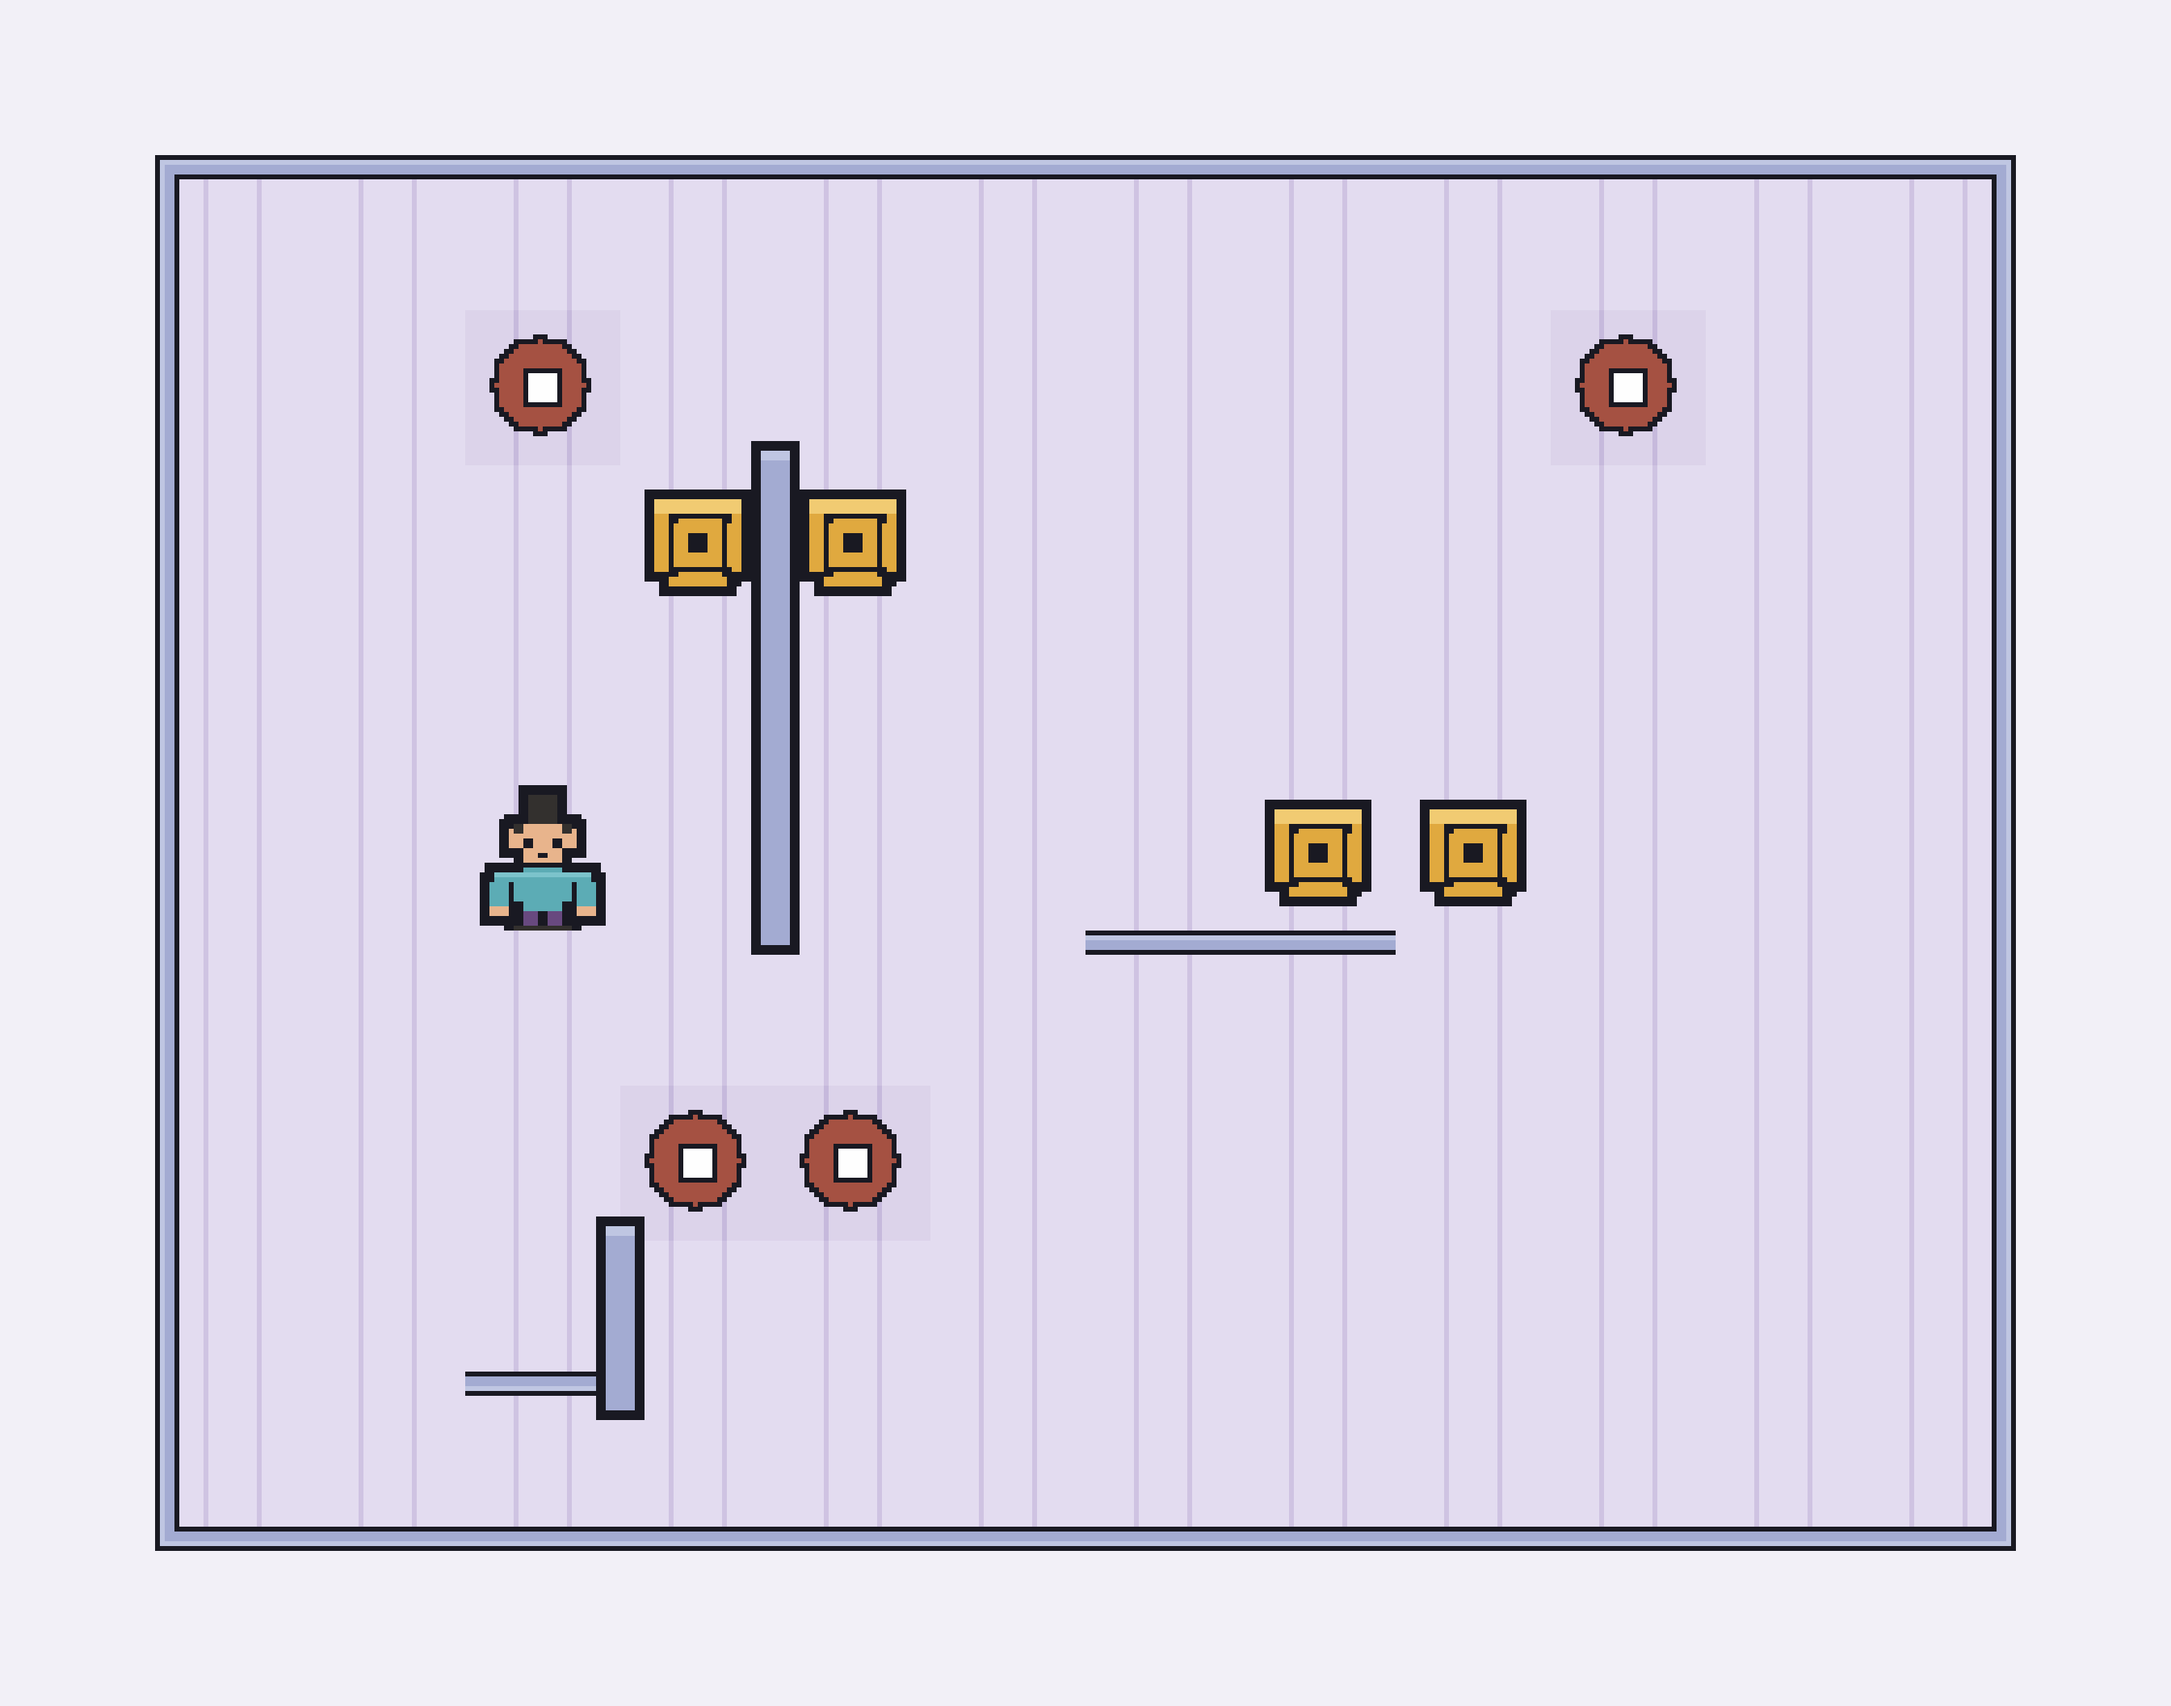
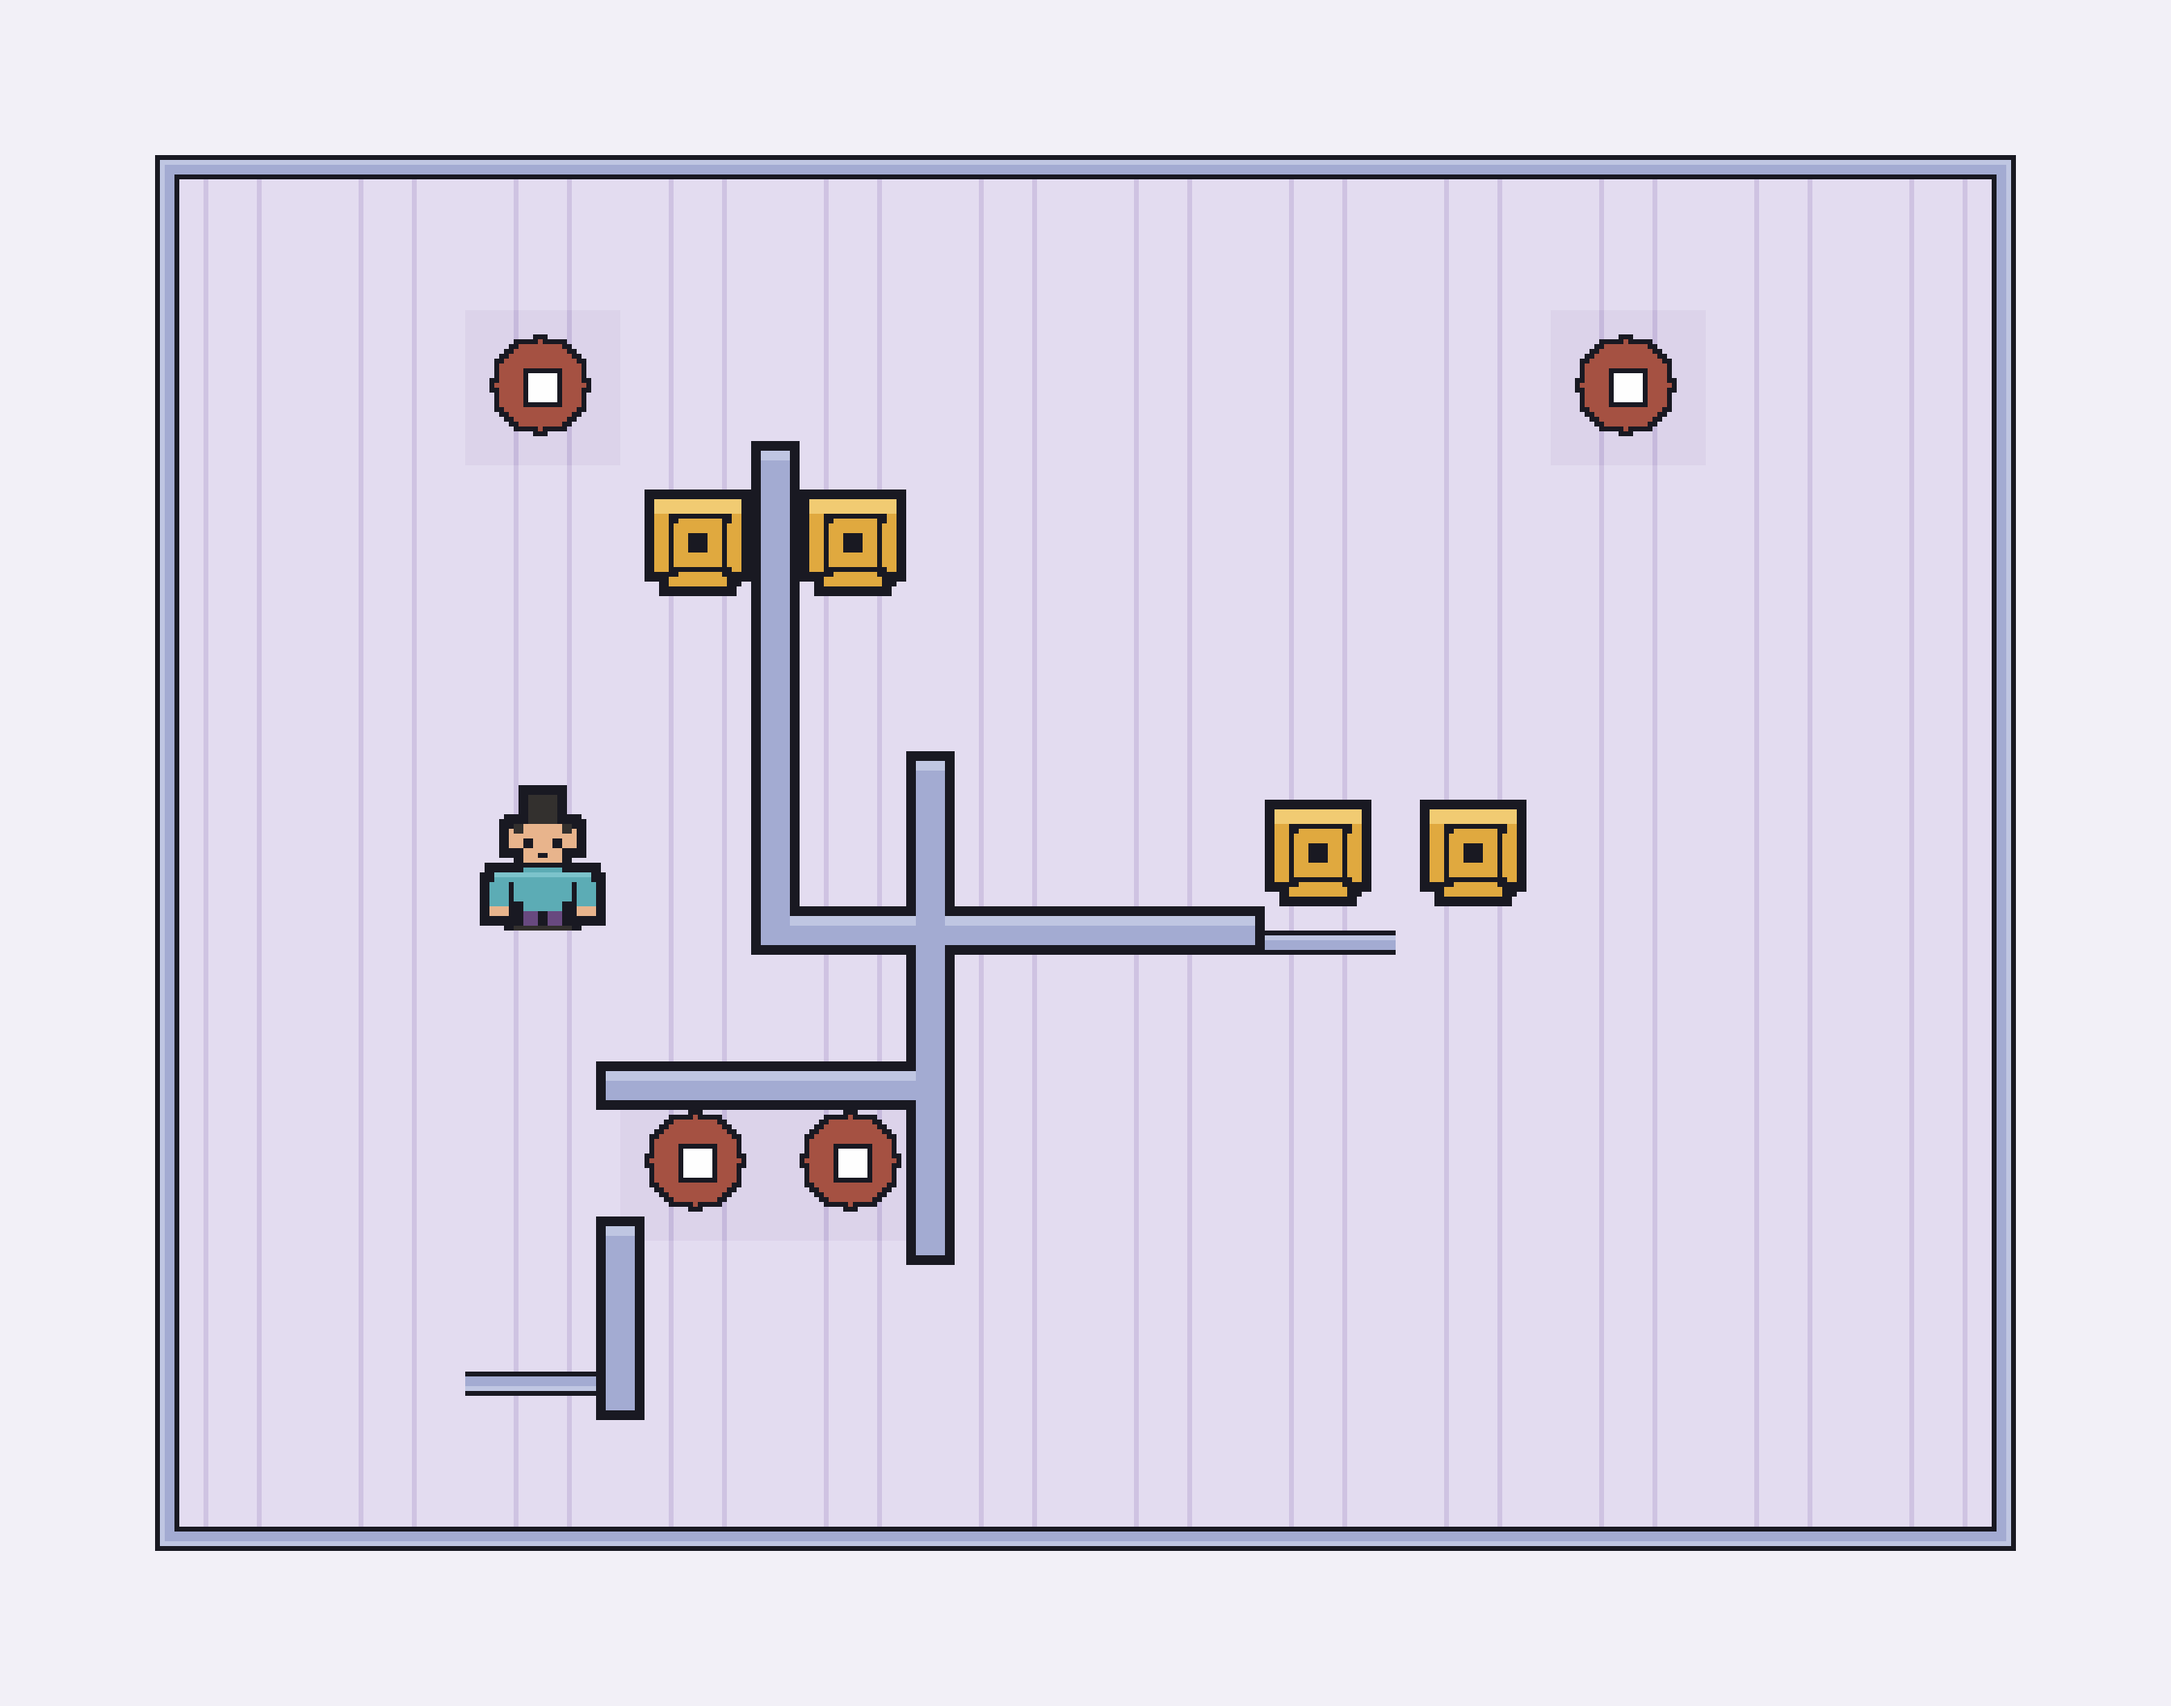
feat(walls): 平涂集竖墙补上亮带，转角接成一条脊
flat() 按"上边两像素是不是空的"找那条唯一亮带，竖着的带子在那里永远不空，
于是整条竖墙没有亮带：转角处横墙的亮线一头撞进平带就断了，仍是凸凹不一。
改成按带子的受光长边取——横带第 13、14 行、竖带第 13、14 列，中心块只按真正
穿过它的臂来取；无条件两个方向都取会在每条笔直竖墙正中留一个 2x2 亮块，
又把格线读了回来。

13 件重出：wall_v、四个角、四个丁字、cross、post、end_n/end_s。纯横件
wall_h 与 wall_end_{e,w} 和 15 件单面墙哈希未变，着色集一件没动。

compose.py 补 junctions()：16 种臂组合各自拼一块，每条臂向外延伸一段让邻节点
正好剩单臂、落成端头盖帽，判断转角的是它在真实关卡里遇见的那批件——contact
sheet 和按格重写的 mock 关卡都看不出这件事。两套均 all orientations resolved。

Changed region(s): [[0.25, 0.4375, 0.5938, 0.75]]

diff --git a/tools/compose.py b/tools/compose.py
@@ -70,10 +70,19 @@ for c in range(COLS):                      # the frame: nothing on the far side,
 for r in range(ROWS):
     declare(0, r, "W")
     declare(COLS - 1, r, "E")
-for r in (2, 3, 4):                        # a doubled interior wall, both sides
+for r in (2, 3, 4):                        # doubled vertical run A
     declare(3, r, "E")
     declare(4, r, "W")
-declare(6, 5, "N")                         # a single-sided interior wall
+for c in (4, 5, 6):                        # doubled run B turning off A -> corner
+    declare(c, 5, "N")
+    declare(c, 4, "S")
+for r in (4, 5, 6):                        # doubled run C crossing B -> cross + tee
+    declare(4, r, "E")
+    declare(5, r, "W")
+for c in (3, 4):                           # doubled stub D meeting C
+    declare(c, 6, "N")
+    declare(c, 5, "S")
+declare(6, 5, "N")                         # single-sided interior walls
 declare(7, 5, "N")
 declare(2, 7, "E", "S")                    # one cell mixing both kinds
 declare(3, 7, "W")
@@ -95,7 +104,7 @@ H = {(c, r) for r in range(ROWS) for c in range(COLS) if is_double(c, r, "N")}
 V = {(c, r) for r in range(ROWS) for c in range(COLS) if is_double(c, r, "W")}
 
 
-def arms_at(x, y):
+def arms_at(x, y, hs=None, vs=None):
     """Which of the four doubled wall segments meet at grid node (x, y).
 
     A horizontal segment runs east from the node it starts at, so it feeds the
@@ -103,14 +112,16 @@ def arms_at(x, y):
     Getting this the other way round turns the outer frame into a row of
     one-armed stubs, which is exactly what the first render showed.
     """
+    hs = H if hs is None else hs
+    vs = V if vs is None else vs
     a = set()
-    if (x, y) in H:
+    if (x, y) in hs:
         a.add("E")
-    if (x - 1, y) in H:
+    if (x - 1, y) in hs:
         a.add("W")
-    if (x, y) in V:
+    if (x, y) in vs:
         a.add("S")
-    if (x, y - 1) in V:
+    if (x, y - 1) in vs:
         a.add("N")
     return a
 
@@ -239,6 +250,53 @@ def scene():
         print(f"UNRESOLVED nodes (no piece carries these arms): {unresolved}")
 
 
+def junctions():
+    """A proof sheet: every double-sided orientation assembled from real pieces.
+
+    Each patch puts one arm-set on a centre node and runs every arm one segment
+    outward, so the neighbour node has exactly one arm and resolves to an end
+    cap. That judges a corner against the pieces it actually meets in a level --
+    which is what a contact sheet cannot show, and what the shipped mock stopped
+    covering after the per-cell rewrite (it only ever placed straight bands).
+    """
+    scale = 4
+    names = list(gw.PIECES)
+    cols, span = 4, 3
+    hs, vs = set(), set()
+    for i, name in enumerate(names):
+        cx, cy = (i % cols) * span + 1, (i // cols) * span + 1
+        for a in gw.PIECES[name]:
+            if a == "E":
+                hs.add((cx, cy))
+            elif a == "W":
+                hs.add((cx - 1, cy))
+            elif a == "S":
+                vs.add((cx, cy))
+            else:
+                vs.add((cx, cy - 1))
+    gx = cols * span + 1
+    gy = ((len(names) + cols - 1) // cols) * span + 1
+    out = Image.new("RGBA", ((gx + 2) * N * scale, (gy + 2) * N * scale), _bg())
+    bad = []
+    placed = 0
+    for y in range(gy + 1):
+        for x in range(gx + 1):
+            arms = arms_at(x, y, hs, vs)
+            if not arms:
+                continue
+            placed += 1
+            got = piece_for(arms)
+            if got is None:
+                bad.append((x, y, "".join(sorted(arms))))
+                continue
+            out.alpha_composite(load(got, scale),
+                                ((x * N + N // 2) * scale, (y * N + N // 2) * scale))
+    out.save(os.path.join(TILES_DIR, f"junctions{SUFFIX}.png"))
+    print(f"junctions{SUFFIX}.png {out.width}x{out.height} nodes={placed}"
+          + (f" UNRESOLVED={bad}" if bad else " all orientations resolved"))
+
+
 if __name__ == "__main__":
     contact()
     scene()
+    junctions()

diff --git a/tools/gen_walls.py b/tools/gen_walls.py
@@ -214,14 +214,36 @@ def shaded(arms):
 
 
 def flat(arms):
-    """(fill, one crest band, ink) pixel lists for the flat pastel style."""
+    """(fill, one crest band, ink) pixel lists for the flat pastel style.
+
+    The crest is the band's **lit long side**: rows 13,14 of a run that goes east
+    or west, columns 13,14 of a run that goes north or south. It used to be found
+    by asking "is the pixel two rows above outside the mask", which is never true
+    down a vertical run -- the run continues there -- so every vertical wall
+    shipped without the one lighter band the horizontals have. A turn then read as
+    a lit ridge running straight into a flat rail and dead-ending, which is the
+    same convex/concave split this set exists to avoid.
+
+    The centre block belongs to whichever arms actually pass through it: taking
+    both tests unconditionally put a 2x2 spur at rows 13,14 in the middle of every
+    straight vertical run, i.e. the grid-line read back again.
+    """
     mask = mask_of(arms)
+    horiz = any(a in "EW" for a in arms)
+    vert = any(a in "NS" for a in arms)
+    lit_side = (BAND[0], BAND[0] + 1)
     body, crest, ink = [], [], []
     for x, y in sorted(mask):
-        if flank_out(mask, arms, x, y, (0, -2)):
-            crest.append(px(x, y, F_HI))
-        else:
-            body.append(px(x, y, F_FILL))
+        in_x, in_y = x in BAND, y in BAND
+        if in_x and in_y:                       # the node where the arms meet
+            take_y = horiz or not vert          # a post with no arms takes both
+            take_x = vert or not horiz
+            lit = (take_y and y in lit_side) or (take_x and x in lit_side)
+        elif in_x:                              # an N/S arm
+            lit = x in lit_side
+        else:                                   # an E/W arm
+            lit = y in lit_side
+        (crest if lit else body).append(px(x, y, F_HI if lit else F_FILL))
     for x, y in ink_of(arms, mask):
         ink.append(px(x, y, F_INK))
     return body, crest, ink
